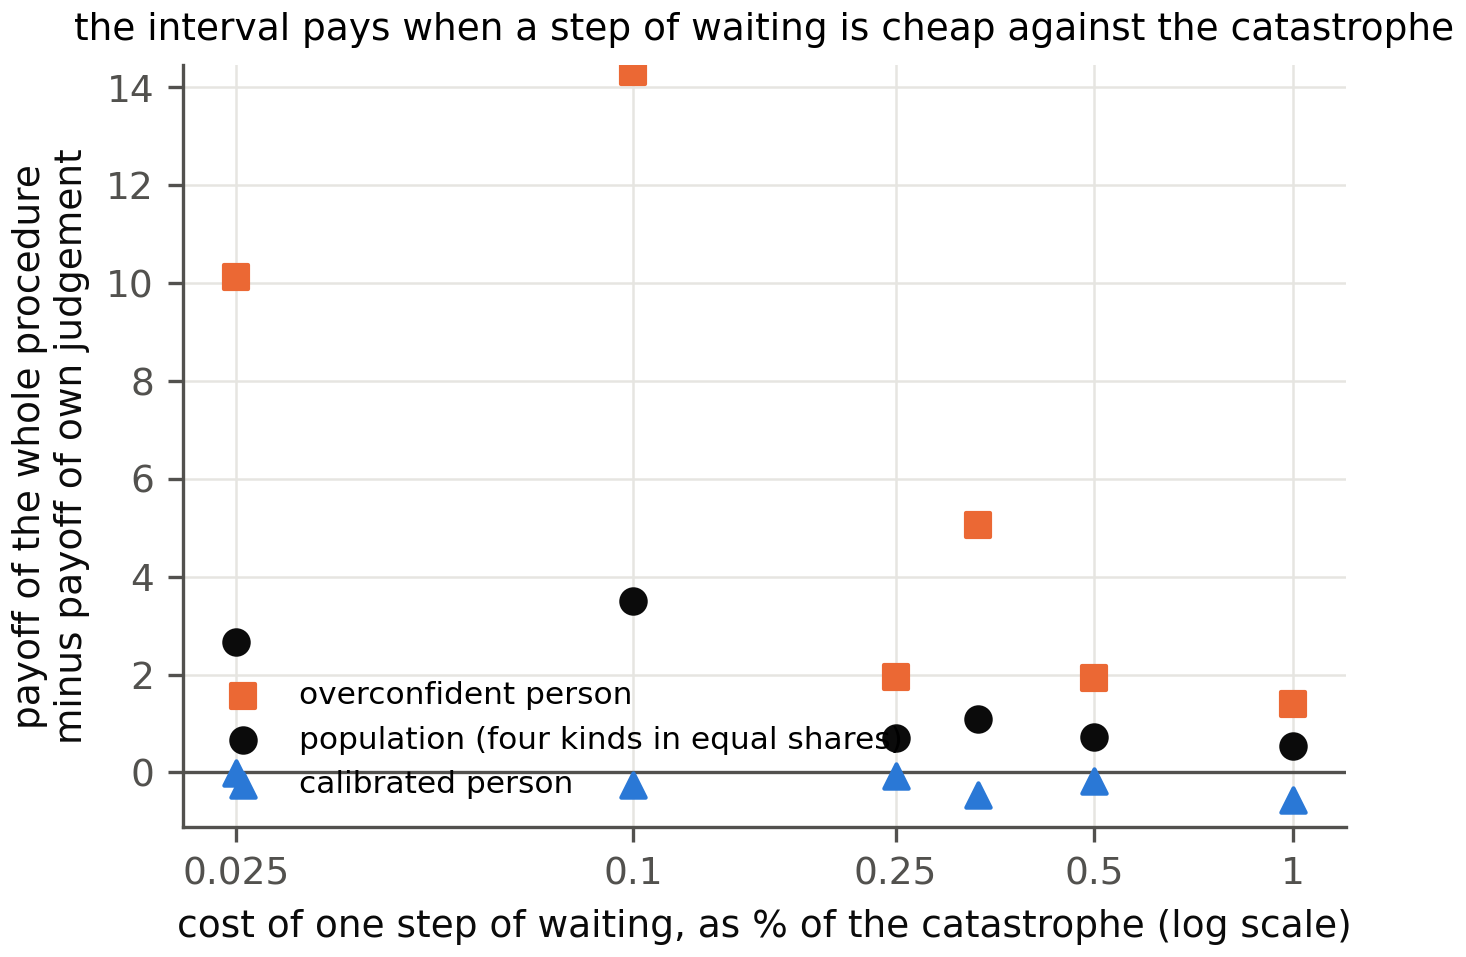
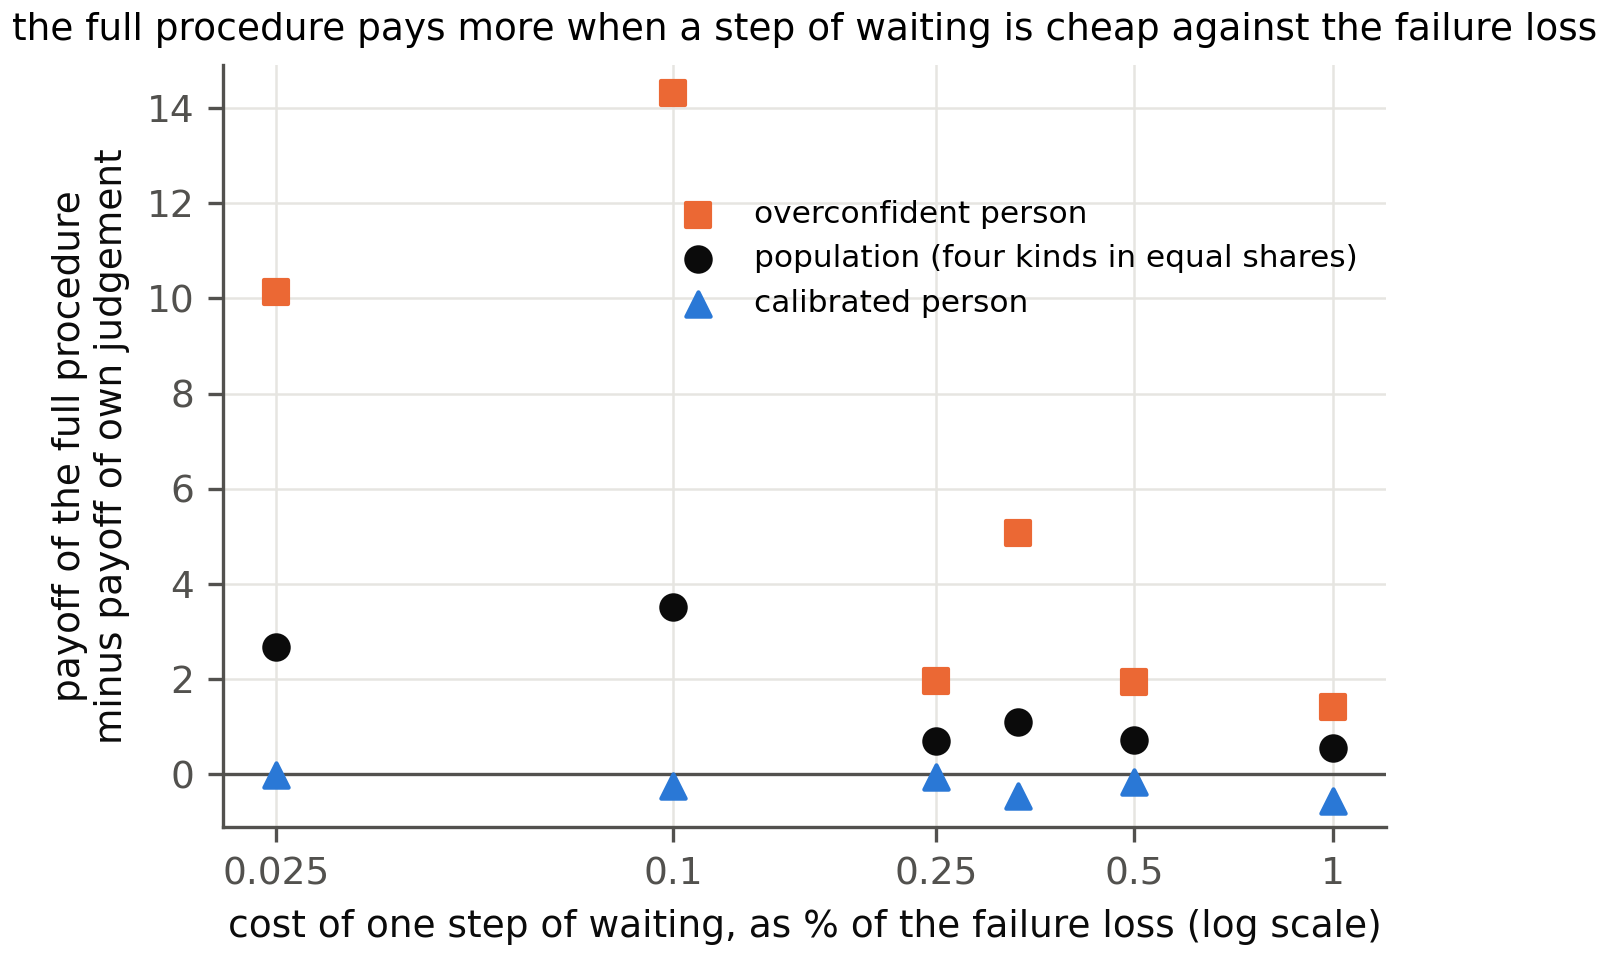
Fig. S1: title names the full procedure; legend moved clear of the zero line and the points
Claude-Session: https://claude.ai/code/session_01QAXeWCCgNeJqY7FAzPYSLx

diff --git a/code/plot_supp.py b/code/plot_supp.py
@@ -29,11 +29,11 @@ def s1_stakes():
     ax.scatter(x, [r["calibrated_d_payoff"] for r in rows], color=BLUE, s=34, marker="^", label="calibrated person", zorder=3)
     ax.set_xscale("log"); ticks = [v for v in x if abs(v - 1 / 3) > 1e-3]
     ax.set_xticks(ticks); ax.set_xticklabels([f"{v:g}" for v in ticks]); ax.minorticks_off()
-    ax.set_xlabel("cost of one step of waiting, as % of the catastrophe (log scale)")
-    ax.set_ylabel("payoff of the whole procedure\nminus payoff of own judgement")
-    ax.legend(frameon=False, fontsize=7.5, loc="lower left")
-    ax.set_ylim(min(r["calibrated_d_payoff"] for r in rows) - 0.55, max(r["overconf_d_payoff"] for r in rows) + 0.15)
-    panel(ax, "", "the interval pays when a step of waiting is cheap against the catastrophe")
+    ax.set_xlabel("cost of one step of waiting, as % of the failure loss (log scale)")
+    ax.set_ylabel("payoff of the full procedure\nminus payoff of own judgement")
+    ax.set_ylim(min(r["calibrated_d_payoff"] for r in rows) - 0.55, max(r["overconf_d_payoff"] for r in rows) + 0.6)
+    ax.legend(frameon=False, fontsize=7.5, loc="upper right", bbox_to_anchor=(1.0, 0.86))   # the right-hand middle is empty: keeps the legend off the zero line and the points
+    panel(ax, "", "the full procedure pays more when a step of waiting is cheap against the failure loss")
     save(fig, "supp_S1_stakes")
 
 
